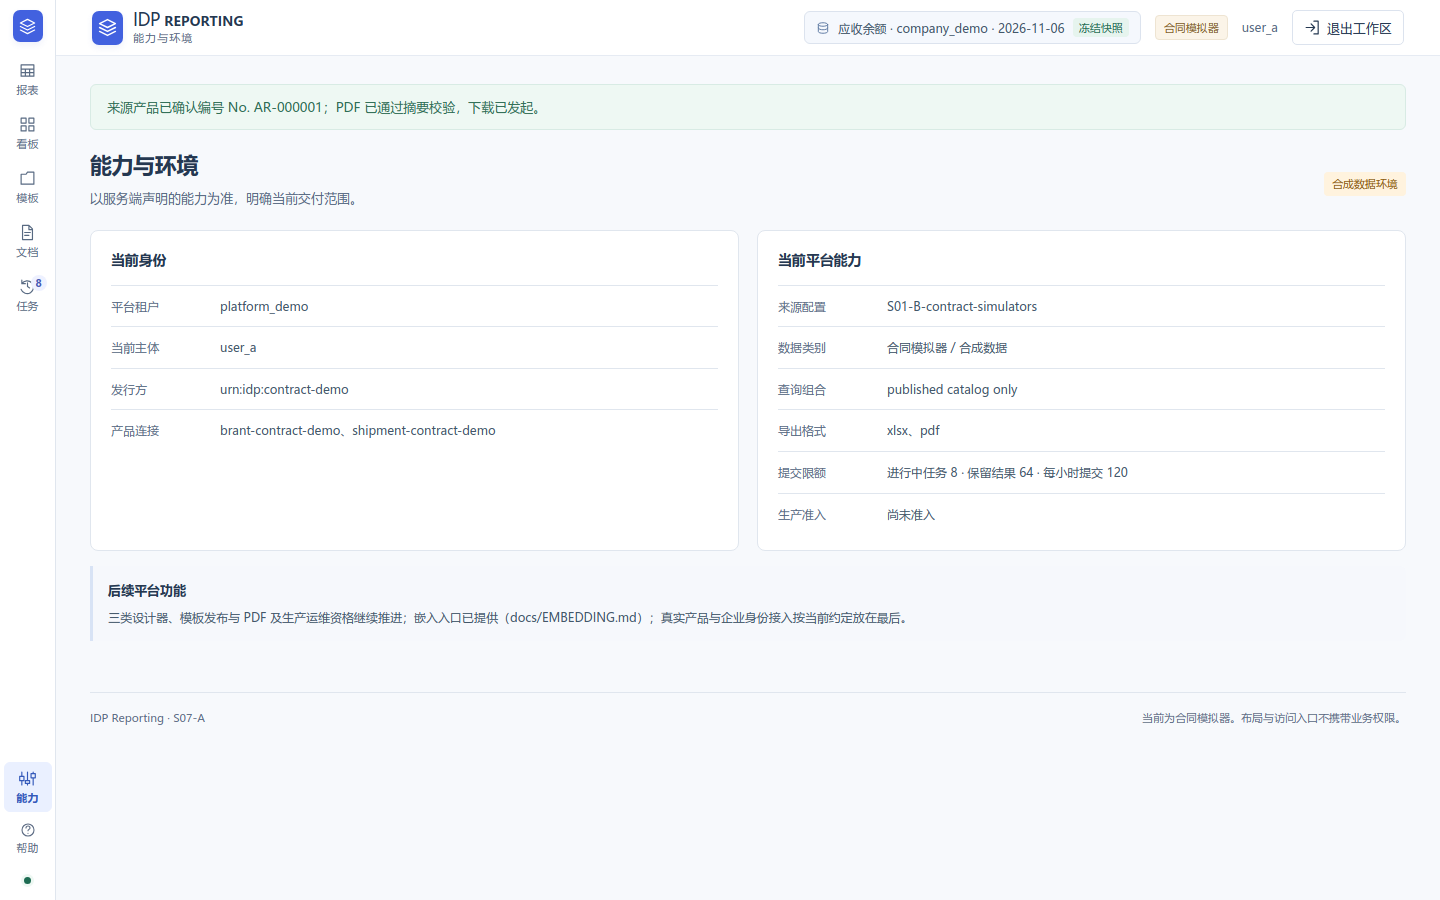
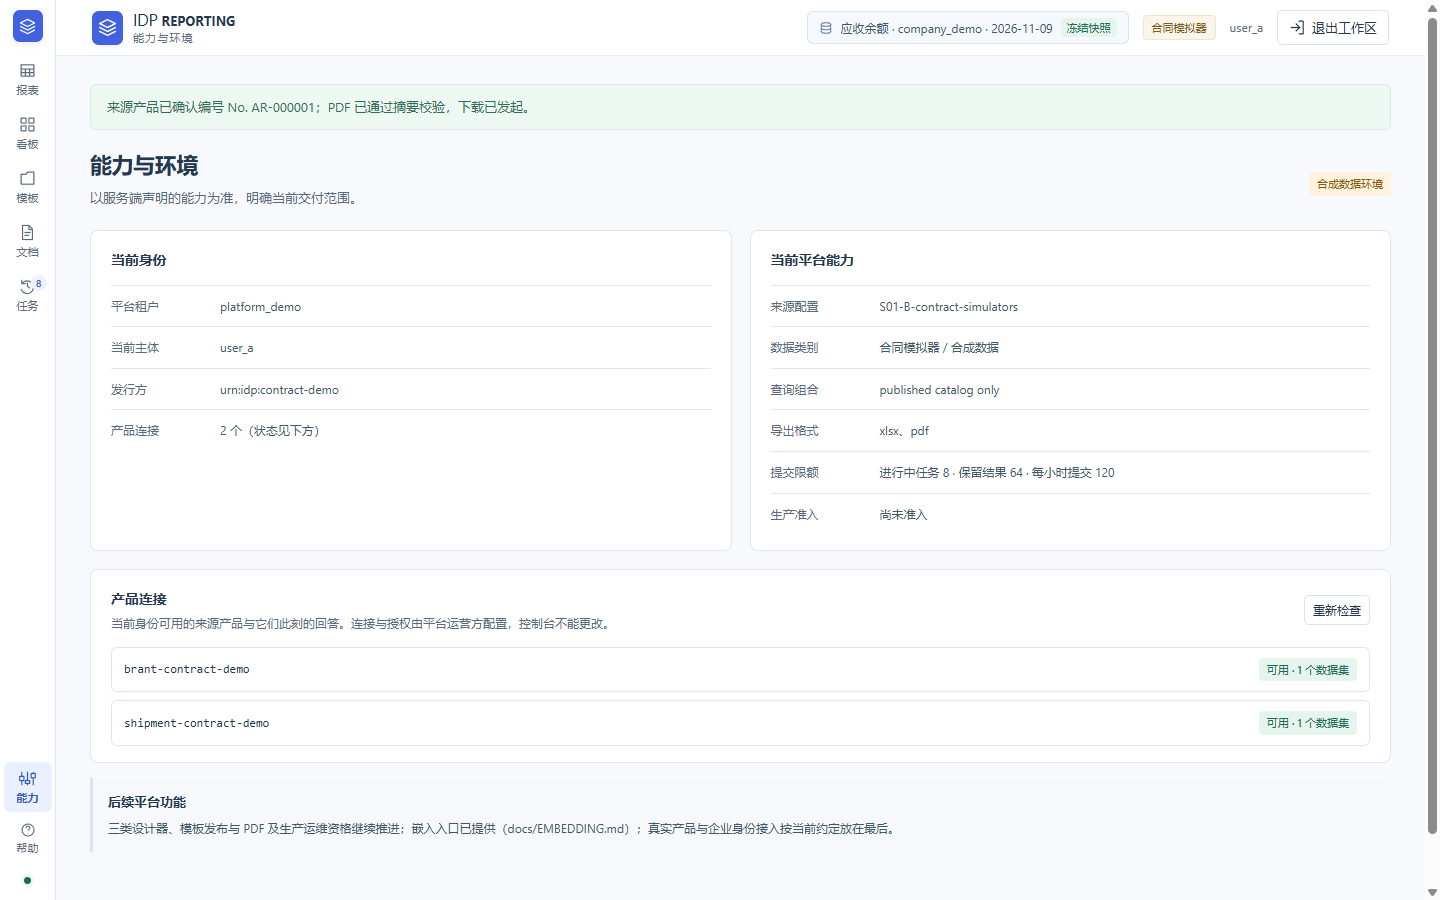
S10-B: the session's products and their state in the console; an identity without a product is told so (ADR 0016)
能力与环境 lists each product of the session with the state its catalog answered (可用 · N 个数据集, 来源拒绝访问, 来源暂时不可用,
回答无法验证); the others are checked in the background after the first loads, through the catalog cache; 重新检查 asks again.
The product select marks a product that is not available. A session with no product signs in, reads no catalog, and says who to
ask (the connection, then the binding); the embed still needs its product. DOM test S10-B, the evidence script checks the panel,
the manual's 能力与环境 text and figure, docs/S10B_SCOPE.md.

diff --git a/console/assets/index.html b/console/assets/index.html
@@ -147,13 +147,14 @@
       <section class="page" id="page-system" hidden>
         <div class="page-heading"><div><h1>能力与环境</h1><p>以服务端声明的能力为准，明确当前交付范围。</p></div><span class="badge warning">合成数据环境</span></div>
         <div class="system-grid"><article class="panel"><div class="panel-heading"><h2>当前身份</h2></div><dl id="identity-details" class="details"></dl></article><article class="panel"><div class="panel-heading"><h2>当前平台能力</h2></div><dl id="capability-details" class="details"></dl></article></div>
+        <article class="panel connections-panel" aria-labelledby="connections-title"><div class="panel-heading"><div><h2 id="connections-title">产品连接</h2><p>当前身份可用的来源产品与它们此刻的回答。连接与授权由平台运营方配置，控制台不能更改。</p></div><button type="button" class="btn small" id="refresh-connections">重新检查</button></div><ul class="connection-list" id="connection-list"></ul></article>
         <div class="scope-note"><b>后续平台功能</b><p>三类设计器、模板发布与 PDF 及生产运维资格继续推进；嵌入入口已提供（docs/EMBEDDING.md）；真实产品与企业身份接入按当前约定放在最后。</p></div>
       </section>
       <footer class="console-footer"><span>IDP Reporting · S07-A</span><span>当前为合同模拟器。布局与访问入口不携带业务权限。</span></footer>
     </main>
   </div>
 </div>
-<div class="sh-overlay" id="sh-d-data" hidden><div class="sh-drawer" role="dialog" aria-modal="true" aria-labelledby="sh-d-data-title"><div class="dialog-head"><div class="head-title"><span class="head-icon"><svg class="ic" aria-hidden="true" focusable="false"><use href="#s-database"/></svg></span><div><h2 id="sh-d-data-title">当前数据</h2><p>产品连接、数据集、公司范围与数据时点；预览或冻结快照后，看板与设计器随之绑定</p></div></div><button type="button" class="quiet" data-act="close" aria-label="关闭"><svg class="ic" aria-hidden="true" focusable="false"><use href="#s-close"/></svg></button></div><div class="dialog-body"><div id="sh-query-slot"></div><section class="sh-fields" id="sh-fields" aria-labelledby="sh-fields-title"><div class="between"><h3 id="sh-fields-title">数据集字段</h3><button type="button" id="refresh-catalog" class="btn small ghost"><svg class="ic" aria-hidden="true" focusable="false"><use href="#s-refresh"/></svg>刷新目录</button></div><p class="help" id="sh-fields-meta">选择数据集后显示字段、类型与币种。</p><div class="column-list" id="sh-fields-list" hidden></div></section></div><div class="dialog-footer"><span class="footer-note">查询仍经来源产品授权；冻结快照才能导出与正式出具。</span><button type="button" class="btn" data-act="close">关闭</button></div></div></div>
+<div class="sh-overlay" id="sh-d-data" hidden><div class="sh-drawer" role="dialog" aria-modal="true" aria-labelledby="sh-d-data-title"><div class="dialog-head"><div class="head-title"><span class="head-icon"><svg class="ic" aria-hidden="true" focusable="false"><use href="#s-database"/></svg></span><div><h2 id="sh-d-data-title">当前数据</h2><p>产品连接、数据集、公司范围与数据时点；预览或冻结快照后，看板与设计器随之绑定</p></div></div><button type="button" class="quiet" data-act="close" aria-label="关闭"><svg class="ic" aria-hidden="true" focusable="false"><use href="#s-close"/></svg></button></div><div class="dialog-body"><p class="drawer-empty" id="sh-no-products" hidden>当前身份没有可用的产品连接，暂时不能查询。请联系平台运营方开通：先为您的租户配置产品连接，再把产品加入您的身份绑定。</p><div id="sh-query-slot"></div><section class="sh-fields" id="sh-fields" aria-labelledby="sh-fields-title"><div class="between"><h3 id="sh-fields-title">数据集字段</h3><button type="button" id="refresh-catalog" class="btn small ghost"><svg class="ic" aria-hidden="true" focusable="false"><use href="#s-refresh"/></svg>刷新目录</button></div><p class="help" id="sh-fields-meta">选择数据集后显示字段、类型与币种。</p><div class="column-list" id="sh-fields-list" hidden></div></section></div><div class="dialog-footer"><span class="footer-note">查询仍经来源产品授权；冻结快照才能导出与正式出具。</span><button type="button" class="btn" data-act="close">关闭</button></div></div></div>
 <div class="sh-overlay" id="sh-d-tasks" hidden><div class="sh-drawer" role="dialog" aria-modal="true" aria-labelledby="sh-d-tasks-title"><div class="dialog-head"><div class="head-title"><span class="head-icon"><svg class="ic" aria-hidden="true" focusable="false"><use href="#s-history"/></svg></span><div><h2 id="sh-d-tasks-title">任务</h2><p>当前身份的快照、导出与出具任务；用任务 ID 打开列表之外的私有任务</p></div></div><button type="button" class="quiet" data-act="close" aria-label="关闭"><svg class="ic" aria-hidden="true" focusable="false"><use href="#s-close"/></svg></button></div><div class="dialog-body" id="sh-tasks-slot"></div><div class="dialog-footer"><span class="footer-note">服务器上最近的 50 项；打开面板时重新读取。</span><span id="sh-tasks-foot"></span><button type="button" class="btn" data-act="close">关闭</button></div></div></div>
 <div class="sh-overlay center" id="ly-d-versions" hidden><div class="sh-dialog wide ver-dialog" role="dialog" aria-modal="true" aria-labelledby="ly-d-versions-title"><div class="dialog-head"><div class="head-title"><span class="head-icon"><svg class="ic" aria-hidden="true" focusable="false"><use href="#s-history"/></svg></span><div><h2 id="ly-d-versions-title">布局版本与发布指针</h2><p>保存版本不可变；恢复编辑与重新发布是两个明确操作</p></div></div><button type="button" class="quiet" data-act="close" aria-label="关闭对话框"><svg class="ic" aria-hidden="true" focusable="false"><use href="#s-close"/></svg></button></div><div class="dialog-body"><div class="version-layout"><div class="version-list" id="ly-version-list" aria-label="保存版本"></div><div class="version-detail"><p class="muted" id="ly-version-empty">先保存一个版本，再管理发布与恢复。</p><div id="ly-version-card" hidden><h3 id="ly-vd-title">v1</h3><p class="tiny muted" id="ly-vd-note"></p><div class="hint-actions"><button type="button" class="btn small" id="ly-ver-restore">恢复到编辑器</button><button type="button" class="btn small" id="ly-ver-publish">发布此保存版本</button><button type="button" class="btn small" id="layout-release-withdraw">撤回发布</button></div></div><div class="release-box"><div class="hint-actions"><button type="button" class="btn small ghost" id="layout-release-status"><svg class="ic" aria-hidden="true" focusable="false"><use href="#s-refresh"/></svg>刷新发布状态</button><button type="button" class="btn small ghost" id="layout-release-publish">发布当前保存版本</button><button type="button" class="btn small ghost" id="layout-release-open">打开已发布版本</button><button type="button" class="btn small ghost" id="layout-server-new">另存为新布局</button></div><p id="layout-release-info" role="status">尚未读取发布状态。</p><ol id="layout-release-history" aria-label="布局发布历史"></ol></div><details class="chooser-raw"><summary>打开其他布局或指定版本</summary><div class="designer-row"><button type="button" class="btn small" id="layout-server-list">刷新我的布局</button><select id="layout-server-listing" aria-label="我的服务器布局"></select><input id="layout-server-version" type="number" min="1" value="1" aria-label="打开的布局版本"><button type="button" class="btn small" id="layout-server-open">打开服务器版本</button></div></details></div></div><p class="ver-note">保存版本不可变：恢复到编辑器只把该版本载入为未保存的修改，不改变发布指针；撤回发布与发布某个保存版本是单独的服务端操作。布局与发布仅当前身份私有。</p></div><div class="dialog-footer"><span class="footer-note" id="ly-version-note"></span><button type="button" class="btn" data-act="close">关闭</button></div></div></div>
 <div class="sh-overlay center" id="ly-d-publish" hidden><div class="sh-dialog" role="dialog" aria-modal="true" aria-labelledby="ly-d-publish-title"><div class="dialog-head"><div class="head-title"><span class="head-icon"><svg class="ic" aria-hidden="true" focusable="false"><use href="#s-publish"/></svg></span><div><h2 id="ly-d-publish-title">发布前确认</h2><p>发布把指针移到一个保存版本；屏幕表格的数据仍来自每次查询</p></div></div><button type="button" class="quiet" data-act="close" aria-label="关闭对话框"><svg class="ic" aria-hidden="true" focusable="false"><use href="#s-close"/></svg></button></div><div class="dialog-body"><dl id="ly-publish-summary"></dl><p class="help" id="ly-publish-note"></p></div><div class="dialog-footer"><span class="footer-note">发布版本仅当前身份私有，不冻结数据或授予访问权限。</span><button type="button" class="btn" data-act="close">取消</button><button type="button" class="btn primary" id="ly-publish-confirm">确认发布</button></div></div></div>

diff --git a/console/assets/app.js b/console/assets/app.js
@@ -31,6 +31,7 @@
     product: '',
     datasets: [],
     catalogs: new Map(),
+    connections: new Map(),
     jobs: new Map(),
     jobsFilter: {kind: '', state: ''},
     jobsMore: '',
@@ -619,6 +620,9 @@
     state.product = '';
     state.datasets = [];
     state.catalogs.clear();
+    state.connections.clear();
+    if ($('connection-list')) $('connection-list').replaceChildren();
+    if ($('sh-no-products')) $('sh-no-products').hidden = true;
     state.jobs.clear();
     state.jobsMore = '';
     state.jobsFilter = {kind: '', state: ''};
@@ -1084,6 +1088,71 @@
   function typeName(type) {
     return Object.hasOwn(typeNames, type) ? typeNames[type] : type;
   }
+  // ADR 0016 (S10-B): each product of the session and what its catalog answered: the list on 能力与环境 and the marks of the product select.
+  // A catalog read is the source's own answer for this identity (DescribeCatalog), cached as loadProduct caches it.
+  function connectionState(error) {
+    if (!error) return null;
+    if (error.code === 'INVALID_RESPONSE') return {tone: 'danger', text: '回答无法验证'};
+    if (error.status === 403) return {tone: 'danger', text: '来源拒绝访问'};
+    if (
+      error.status === 0 ||
+      error.status === 502 ||
+      error.status === 503 ||
+      error.status === 504 ||
+      error.name === 'AbortError'
+    )
+      return {tone: 'warning', text: '来源暂时不可用'};
+    return {tone: 'danger', text: '无法读取（' + (error.code || error.status) + '）'};
+  }
+  function renderConnections() {
+    const list = $('connection-list');
+    if (!list) return;
+    list.replaceChildren();
+    const products = state.session ? state.session.integrations : [];
+    if (!products.length) {
+      list.append(node('li', '当前身份没有可用的产品连接。请联系平台运营方：先为租户配置连接，再把产品加入身份绑定。'));
+      return;
+    }
+    for (const id of products) {
+      const row = node('li');
+      const name = node('code', id);
+      const known = state.connections.get(id);
+      const badge = known
+        ? known.ok
+          ? node('span', '可用 · ' + known.count + ' 个数据集', 'badge')
+          : node('span', known.state.text, 'badge ' + known.state.tone)
+        : node('span', '检查中…', 'badge neutral');
+      row.append(name, badge);
+      list.append(row);
+    }
+    for (const option of $('query-product').options) {
+      const known = state.connections.get(option.value);
+      option.textContent = known && !known.ok ? option.value + '（' + known.state.text + '）' : option.value;
+    }
+  }
+  async function checkConnections(fresh) {
+    const epoch = state.epoch,
+      products = state.session ? state.session.integrations.slice() : [];
+    if (fresh) state.connections.clear();
+    renderConnections();
+    for (const id of products) {
+      let entry;
+      try {
+        let datasets = fresh ? undefined : state.catalogs.get(id);
+        if (!datasets) datasets = await request('/catalog?integration_id=' + encodeURIComponent(id));
+        if (!Array.isArray(datasets) || datasets.length > 100 || !datasets.every(validDataset))
+          throw new Failure(0, 'INVALID_RESPONSE');
+        if (epoch !== state.epoch) return;
+        if (!state.catalogs.has(id)) state.catalogs.set(id, datasets);
+        entry = {ok: true, count: datasets.length};
+      } catch (error) {
+        if (error instanceof Stale || epoch !== state.epoch) return;
+        entry = {ok: false, state: connectionState(error)};
+      }
+      state.connections.set(id, entry);
+      renderConnections();
+    }
+  }
   async function loadProduct(id, refresh) {
     const epoch = state.epoch,
       operation = ++state.catalogOperation;
@@ -1158,7 +1227,6 @@
         !session.identity ||
         !['tenant', 'issuer', 'subject'].every(k => typeof session.identity[k] === 'string' && session.identity[k]) ||
         !Array.isArray(session.integrations) ||
-        !session.integrations.length ||
         session.integrations.length > 32 ||
         !session.integrations.every(i => typeof i === 'string' && i.length <= 128) ||
         !Array.isArray(caps.formats) ||
@@ -1169,7 +1237,8 @@
       const offered = embedded
         ? session.integrations.filter(i => i === embedRequest.integration)
         : session.integrations;
-      if (!offered.length) throw new Failure(403, 'AUTH_SCOPE_DENIED');
+      // ADR 0016: the server lists only the products it serves; an identity with none signs in and is told so (the embed needs its one).
+      if (!offered.length && embedded) throw new Failure(403, 'AUTH_SCOPE_DENIED');
       state.session = session;
       state.capabilities = caps;
       $('export-pdf').hidden = !caps.formats.includes('pdf');
@@ -1187,7 +1256,7 @@
         ['平台租户', session.identity.tenant],
         ['当前主体', session.identity.subject],
         ['发行方', session.identity.issuer],
-        ['产品连接', session.integrations.join('、')],
+        ['产品连接', session.integrations.length ? session.integrations.length + ' 个（状态见下方）' : '无'],
       ]);
       addDetails('capability-details', [
         ['来源配置', caps.profile],
@@ -1222,8 +1291,17 @@
         }
       }
       state.starting = false;
+      if (!embedded) {
+        $('sh-no-products').hidden = offered.length > 0;
+        renderConnections();
+      }
+      if (!offered.length) {
+        notify('当前身份没有可用的产品连接，暂时不能查询。请联系平台运营方开通。', 'error');
+        return;
+      }
       try {
         await loadProduct(offered[0]);
+        if (!embedded) checkConnections().catch(() => {});
         // The resource is prepared before anything can be started: a dataset selected under a query in flight would discard that query.
         if (embedded) {
           busy(1);
@@ -2522,6 +2600,11 @@
     $('query-date').value = selected() ? dateInZone(selected().timezone) : '';
   });
   for (const id of ['query-companies', 'query-date']) $(id).addEventListener('input', queryChanged);
+  // ADR 0016 (S10-B): 重新检查 asks every product's source again, without the cache.
+  if ($('refresh-connections'))
+    $('refresh-connections').addEventListener('click', () => {
+      if (state.session) checkConnections(true).catch(() => {});
+    });
   $('refresh-catalog').addEventListener('click', () => {
     if (state.product)
       loadProduct(state.product, true)

diff --git a/docs/manual/index.html b/docs/manual/index.html
@@ -160,7 +160,8 @@
 <div class="note">任务列表只含<strong>本浏览器会话</strong>创建或恢复的任务——刷新页面后它是空的，但任务都在服务器上，用任务 ID 即可找回。这也是为什么造数据脚本会把它建的任务 ID 打印出来。</div>
 
 <h2 id="p-system">能力与环境</h2>
-<figure><img src="img/33-system.png" alt="能力与环境"><figcaption><b>能力与环境</b>当前身份（租户、主体、发行方、产品连接）与服务端声明的能力（来源配置、查询组合、导出格式、提交限额、生产准入）。</figcaption></figure>
+<figure><img src="img/33-system.png" alt="能力与环境"><figcaption><b>能力与环境</b>当前身份（租户、主体、发行方、产品连接数）与服务端声明的能力（来源配置、查询组合、导出格式、提交限额、生产准入）；下方"产品连接"逐个列出当前身份的产品与它此刻的回答：可用（几个数据集）、来源拒绝访问、来源暂时不可用。"重新检查"再问一次每个来源。</figcaption></figure>
+<p>产品连接由平台运营方配置（ADR 0016）：先在服务端配置文件里为租户加连接，再把产品加入身份绑定；控制台只显示，不能更改。数据面板的产品下拉框会标出暂时不可用或被拒绝的产品。没有任何产品的身份登录后会看到提示，告诉您联系运营方开通。</p>
 
 <h2 id="data">测试数据</h2>
 <h3 id="data-sim">模拟器里的数据</h3>

diff --git a/console/assets/styles.css b/console/assets/styles.css
@@ -3637,3 +3637,39 @@ body:not(.embed) #page-library .library-header > .wordmark,
 body:not(.embed) #lib-data {
   display: none;
 }
+
+/* ADR 0016 (S10-B): the session's products and the state their catalogs answered; the note for an identity without a product. */
+.connections-panel {
+  margin-top: 18px;
+}
+.connection-list {
+  list-style: none;
+  margin: 0;
+  padding: 0 20px 16px;
+  display: grid;
+  gap: 8px;
+}
+.connection-list li {
+  display: flex;
+  align-items: center;
+  justify-content: space-between;
+  gap: 12px;
+  padding: 10px 12px;
+  border: 1px solid var(--line);
+  border-radius: 6px;
+}
+.connection-list code {
+  font-family: var(--mono);
+  font-size: 12px;
+  overflow-wrap: anywhere;
+}
+.drawer-empty {
+  margin: 0 0 14px;
+  padding: 12px 14px;
+  border: 1px solid var(--line);
+  border-radius: 6px;
+  background: var(--soft);
+  color: var(--text);
+  font-size: 12px;
+  line-height: 1.7;
+}

diff --git a/docs/CONSOLE.md b/docs/CONSOLE.md
@@ -3,6 +3,8 @@
 界面由现有 Go 服务直接提供，地址 /console/。无需 Node、npm 或前端构建即可
 运行已编译的服务。Node/jsdom 仅用于开发测试。当前数据和身份仍是合同模拟器。
 
+> S10-B（ADR 0016）：能力与环境新增“产品连接”面板，逐个列出会话里的产品与其数据目录此刻的回答（可用 · N 个数据集 / 来源拒绝访问 / 来源暂时不可用 / 回答无法验证），登录后第一个产品加载完即在后台检查其余产品（目录读取与选择产品时共用缓存），“重新检查”不用缓存再问一次；数据面板的产品下拉框给不可用的产品加注。服务端只列出有连接的产品（S10-A），会话里没有产品的身份不再得到“无法验证的响应”，而是正常登录、看到提示与数据面板里的说明（联系平台运营方：先配置连接，再加入绑定）；嵌入页仍要求地址里的那个产品。见 docs/S10B_SCOPE.md。
+
 > DOM 测试的等待约定（2026-11-04，main 上两次偶发失败之后）：断言“某事已经发生”前，用 `until` 等那件事的结果（行已出现、提示已显示、回答已到达：嵌入页夹具的请求记录带 `answered`），不要等“请求已发出”再加固定 `sleep`；固定 `sleep` 只用于“一段时间内什么都没发生”的反向检查。慢的 CI runner 会让第一种写法误报失败。main 的四个 CI 作业已设为必需检查。
 
 > S07-D：用户手册随服务提供：`/console/manual/`（`docs/manual` 通过 `docs` 包嵌入二进制，只按名字提供页面、样式、截图与测试数据，不列目录；与控制台相同的 CSP 等响应头，手册样式因此在 `manual.css` 里）。应用栏底部与登录卡上的“帮助”图标在新窗口打开它。

diff --git a/docs/S10B_SCOPE.md b/docs/S10B_SCOPE.md
@@ -1,0 +1,20 @@
+# S10-B the products of the session, in the console
+
+2026-11-09. ADR 0016 decision 4. The console shows what the server and the sources say about the session's products; it changes
+nothing.
+
+B1 · 能力与环境 has a 产品连接 panel: each product of `GET /session` and the state its catalog answered: 可用 · N 个数据集, 来源拒绝访问
+(403), 来源暂时不可用 (no answer, 502/503/504, a timeout), 回答无法验证 (a catalog the console cannot believe), or 无法读取 (the
+code). After sign-in the first product loads as before; the others are checked in the background, one at a time, through the same
+cache the catalog uses. 重新检查 asks every source again without the cache. Sign-out clears the panel.
+
+B2 · The data panel's product select marks a product that is not available (`shipment-contract-demo（来源暂时不可用）`); its value
+is unchanged.
+
+B3 · No product. Since S10-A the session lists only served products, and may list none. The console signs in, reads no catalog, shows
+an error notice and, in the data panel, a note that says who to ask and in which order (the connection, then the binding). The
+identity row says 产品连接: 无. The embed page still needs the product its address names.
+
+Tests: DOM test S10-B (an unavailable product listed and marked, 重新检查 reads both catalogs again and clears the mark, a refusal,
+an identity with no product); the console evidence script checks the panel on the demo (both products 可用). The manual's 能力与环境
+figure is retaken.
